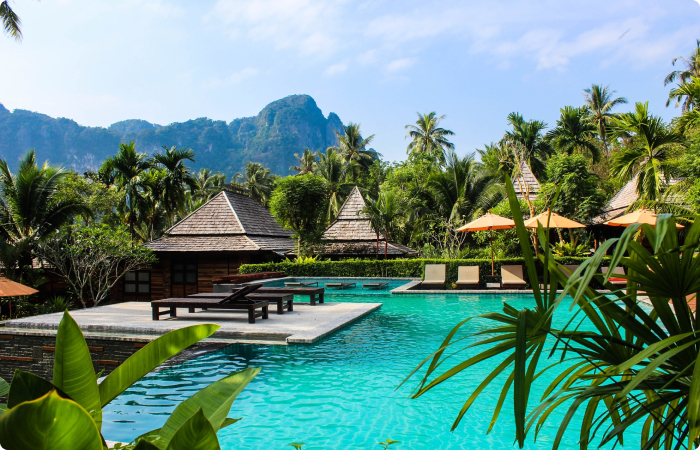
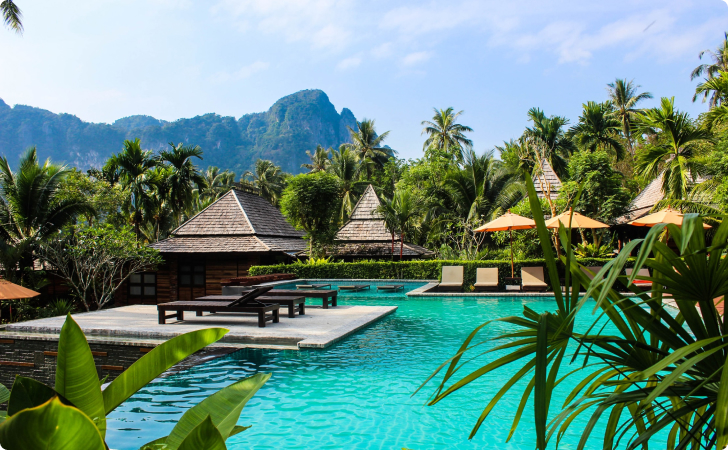
Создание: media rules for hotel section

diff --git a/index.html b/index.html
@@ -123,15 +123,27 @@
       </div>
       <!-- /.hotel-info -->
       <div class="hotel-grid">
-        <div class="slider">
+        <div class="slider hotel__slider">
           <!-- Slider main container -->
           <div class="swiper">
             <!-- Additional required wrapper -->
             <div class="swiper-wrapper">
               <!-- Slides -->
-              <div class="swiper-slide"><img src="img/slide.jpg" alt="slide"></div>
-              <div class="swiper-slide"><img src="img/hotel.jpg" alt="slide"></div>
-              <div class="swiper-slide"><img src="img/room.jpg" alt="slide"></div>
+              <div class="swiper-slide">
+                <img 
+                class="swiper-slide__image" 
+                src="img/slide.jpg" 
+                alt="slide"></div>
+              <div class="swiper-slide">
+                <img 
+                class="swiper-slide__image" 
+                src="img/hotel.jpg" 
+                alt="slide"></div>
+              <div class="swiper-slide">
+                <img 
+                class="swiper-slide__image" 
+                src="img/room.jpg" 
+                alt="slide"></div>
             </div>
             <!-- If we need navigation buttons -->
             <button class="slider-button slider-button--prev"></button>
@@ -176,7 +188,7 @@
           <div class="map">
             <iframe
               src="https://www.google.com/maps/embed?pb=!1m18!1m12!1m3!1d6716.662422744544!2d98.2966645258012!3d7.838797513501568!2m3!1f0!2f0!3f0!3m2!1i1024!2i768!4f13.1!3m3!1m2!1s0x305025650c33dbab%3A0xa67a542329d011e1!2z0J_RhdGD0LrQtdGCLCDQmtCw0YDQvtC9LCDQntGC0LXQu9GMINCl0LjQu9GC0L7QvQ!5e0!3m2!1sru!2sru!4v1644139273670!5m2!1sru!2sru"
-              width="347" height="213" style="border:0;" allowfullscreen="" loading="lazy"></iframe>
+              width="100%" height="213" style="border:0;" allowfullscreen="" loading="lazy"></iframe>
           </div>
           <!-- /.map -->
         </div>

diff --git a/css/style.css b/css/style.css
@@ -618,7 +618,7 @@ template {
 
 .swiper {
   width: 100%;
-  height: 450px;
+  height: 100%;
   position: relative;
   border-radius: 8px;
 }
@@ -638,7 +638,8 @@ template {
 }
 
 .slider {
-  width: 700px;
+  width: 728px;
+  height: 450px;
 }
 
 .slider-button {
@@ -795,13 +796,22 @@ template {
 .map {
   width: 347px;
   height: 213px;
-  border-radius: 4px;
-  background-color: black;
+  border-radius: 10px;
+  overflow: hidden;
 }
 
 @media (max-width: 1200px) {
   .container {
     max-width: 960px;
+  }
+  .slider {
+    width: 590px;
+  }
+  .swiper-slide__image {
+    width: 100%;
+    height: 100%;
+    -o-object-fit: cover;
+       object-fit: cover;
   }
 }
 
@@ -830,6 +840,30 @@ template {
     line-height: 15px;
   }
   .search__input {
+    width: 340px;
+  }
+  .hotel-grid {
+    -webkit-box-orient: vertical;
+    -webkit-box-direction: normal;
+        -ms-flex-direction: column;
+            flex-direction: column;
+  }
+  .hotel__slider {
+    margin-bottom: 30px;
+  }
+  .hotel-right {
+    -webkit-box-orient: horizontal;
+    -webkit-box-direction: normal;
+        -ms-flex-direction: row;
+            flex-direction: row;
+  }
+  .booking {
+    width: 340px;
+  }
+  .slider {
+    width: 100%;
+  }
+  .map {
     width: 340px;
   }
 }
@@ -914,6 +948,22 @@ template {
   .hotel-info__rating {
     display: none;
   }
+  .slider {
+    height: 350px;
+  }
+  .hotel-right {
+    -webkit-box-orient: vertical;
+    -webkit-box-direction: normal;
+        -ms-flex-direction: column;
+            flex-direction: column;
+    min-height: 450px;
+  }
+  .booking {
+    width: 100%;
+  }
+  .map {
+    width: 100%;
+  }
 }
 
 @media (max-width: 576px) {
@@ -923,6 +973,12 @@ template {
   .container {
     max-width: 320px;
     width: 88%;
+  }
+  .slider {
+    height: 250px;
+  }
+  .hotel__slider {
+    margin-bottom: 20px;
   }
 }
 /*# sourceMappingURL=style.css.map */

diff --git a/sass/_media.sass b/sass/_media.sass
@@ -1,6 +1,14 @@
 @media (max-width: 1200px)
   .container
     max-width: 960px
+  .slider
+    width: 590px
+  .swiper
+    &-slide
+      &__image
+        width: 100%
+        height: 100%
+        object-fit: cover
 @media (max-width: 992px)
   .container
     max-width: 700px
@@ -23,7 +31,19 @@
   .search
     &__input
       width: 340px
-  
+  .hotel
+    &-grid
+      flex-direction: column
+    &__slider
+      margin-bottom: 30px
+    &-right
+      flex-direction: row
+  .booking
+    width: 340px
+  .slider
+    width: 100%
+  .map
+    width: 340px
 @media (max-width: 767px)
   .container
     max-width: 576px
@@ -76,12 +96,27 @@
         margin-left: 0
       &__rating
         display: none
+  .slider
+    height: 350px
+  .hotel
+    &-right
+      flex-direction: column
+      min-height: 450px
+  .booking
+    width: 100%
+  .map
+    width: 100%
 @media (max-width: 576px)
   .logo
     width: 99px
   .container
     max-width: 320px
     width: 88%
+  .slider
+    height: 250px
+  .hotel
+    &__slider
+      margin-bottom: 20px
 
 
     

diff --git a/sass/blocks/_hotel.sass b/sass/blocks/_hotel.sass
@@ -57,7 +57,7 @@
     line-height: 18px
 .swiper
   width: 100%
-  height: 450px
+  height: 100%
   position: relative
   border-radius: 8px
   &::after
@@ -72,7 +72,8 @@
     background: linear-gradient(180deg,rgba(0, 122, 223, 0.48) 0%, rgba(255, 255, 255, 0.128) 100%)
     z-index: 10
 .slider
-  width: 700px
+  width: 728px
+  height: 450px
   &-button
     position: absolute
     top: 50%
@@ -167,8 +168,8 @@
 .map
   width: 347px
   height: 213px
-  border-radius: 4px   
-  background-color: black
+  border-radius: 10px   
+  overflow: hidden
 
 
     
